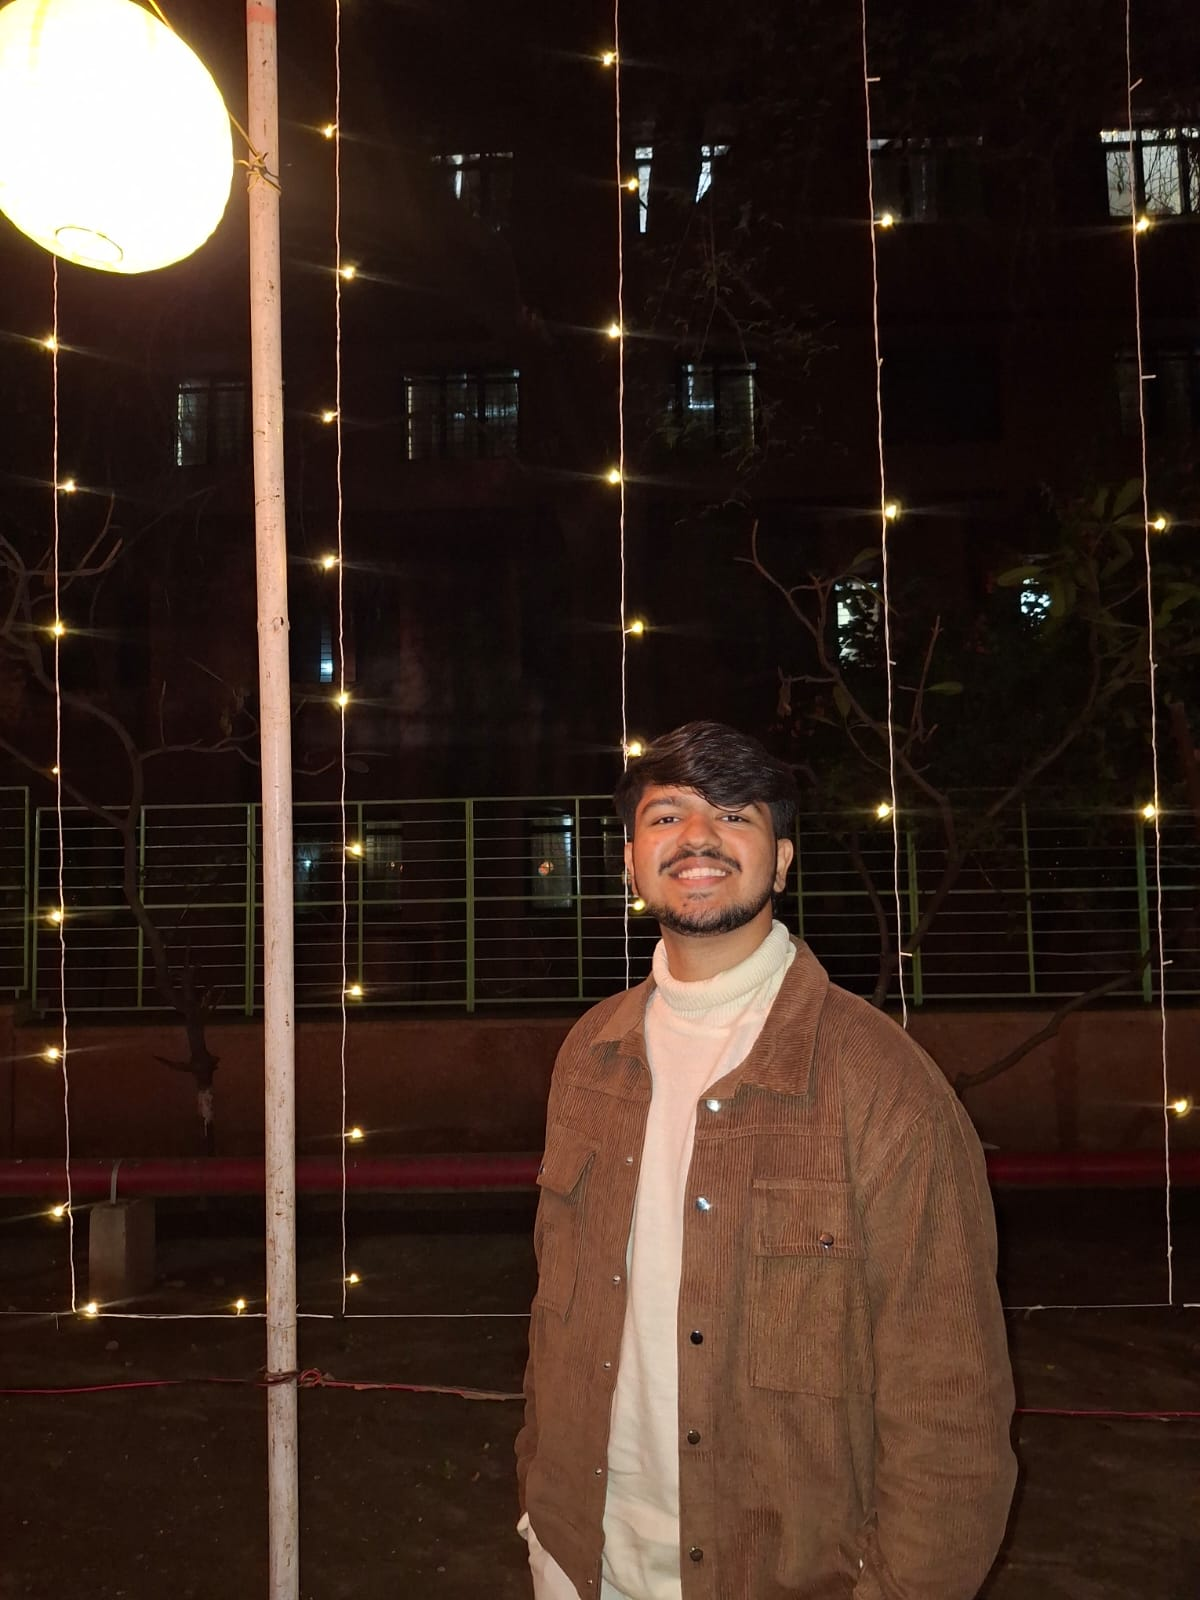
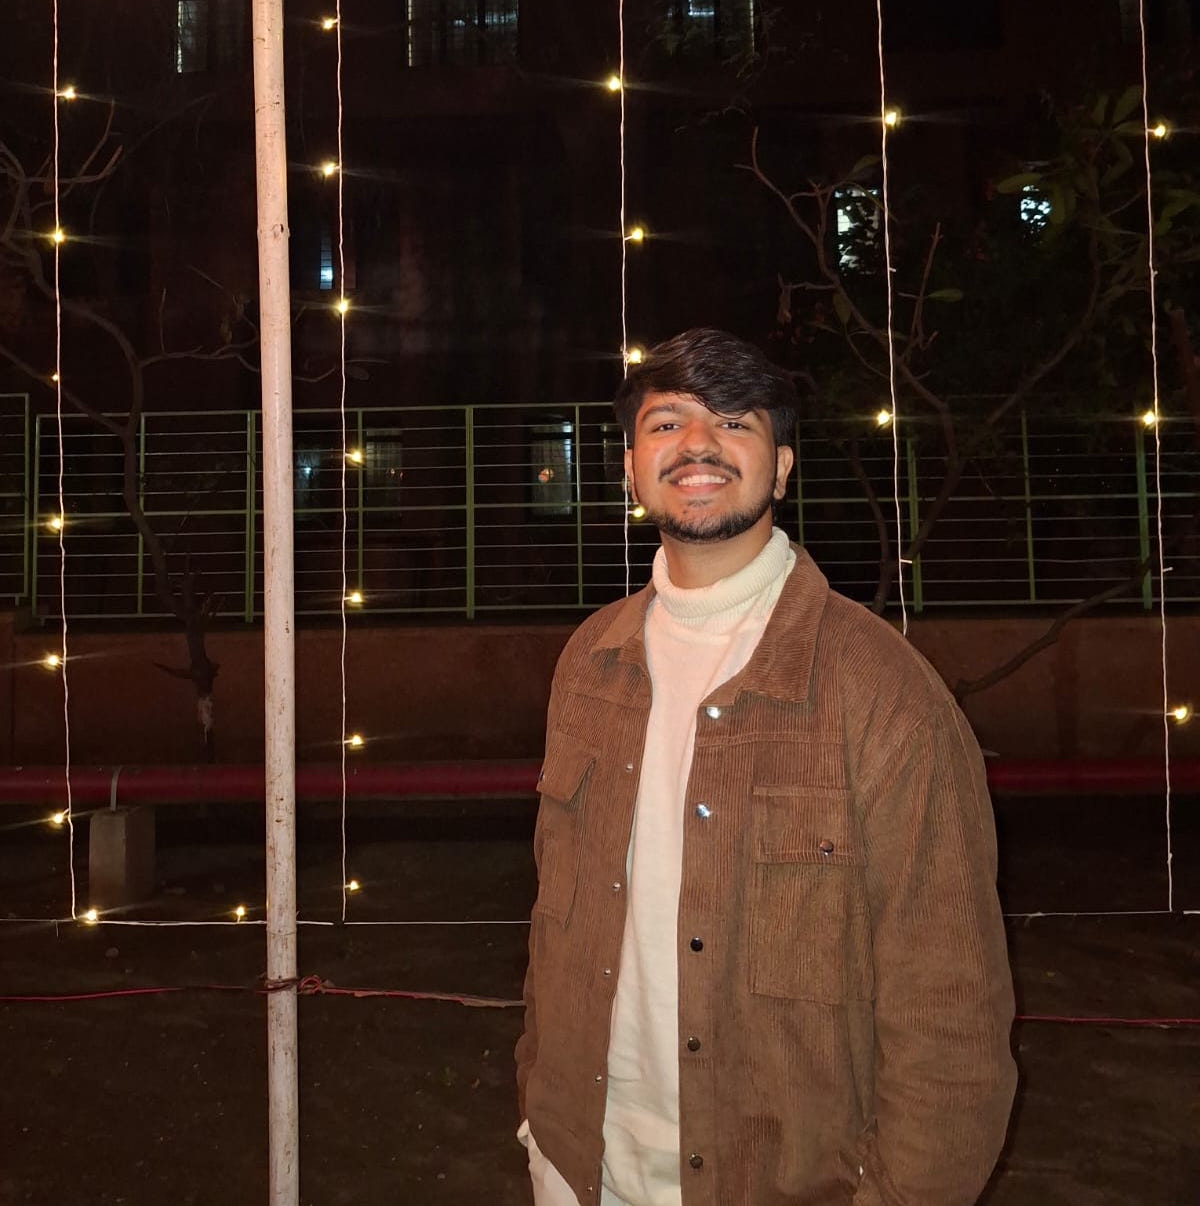
pheonix coordies contact added

diff --git a/lib/screens/science_tech/science_tech_page.dart b/lib/screens/science_tech/science_tech_page.dart
@@ -44,29 +44,29 @@ class ScienceTechPage extends StatelessWidget {
         {
           'name': 'Aryan Agarwal',
           'role': 'Coordinator',
-          'image': 'assets/assets/images/tech/phoenix/phoenix_logo.png', // not updated
-          'phone': '+919999999999', // not updated
+          'image': 'assets/assets/images/tech/phoenix/aryan.jpeg',
+          'phone': '+918949088873',
           'email': '24ucs038@lnmiit.ac.in',
         },
         {
           'name': 'Aviral Goyal',
           'role': 'Coordinator',
-          'image': 'assets/assets/images/tech/phoenix/phoenix_logo.png', // not updated
-          'phone': '+918888888888', // not updated
+          'image': 'assets/assets/images/tech/phoenix/aviral.jpg',
+          'phone': '+917830353557',
           'email': '24uec242@lnmiit.ac.in',
         },
         {
           'name': 'Shamit Rathi',
           'role': 'Coordinator',
-          'image': 'assets/assets/images/tech/phoenix/phoenix_logo.png', // not updated
-          'phone': '+918888888888', // not updated
+          'image': 'assets/assets/images/tech/phoenix/shamit.jpeg',
+          'phone': '+919460044695',
           'email': '24ucc004@lnmiit.ac.in',
         },
         {
           'name': 'Shreekant Kumawat',
           'role': 'Coordinator',
           'image': 'assets/assets/images/tech/phoenix/phoenix_logo.png', // not updated
-          'phone': '+918888888888', // not updated
+          'phone': '+919587826474',
           'email': '24uec183@lnmiit.ac.in',
         },
       ];
@@ -330,7 +330,7 @@ class ScienceTechPage extends StatelessWidget {
         'assets/assets/images/tech/debsoc/deb4.jpg',
         'assets/assets/images/tech/debsoc/deb5.jpg',
         'assets/assets/images/tech/debsoc/deb6.jpg',
-        'assets/assets/images/tech/debsoc/deb7.jpg',
+        'assets/assets/images/tech/debsoc/deb7.JPG',
         'assets/assets/images/tech/debsoc/deb8.jpg',
         'assets/assets/images/tech/debsoc/deb9.jpg',
         'assets/assets/images/tech/debsoc/deb10.jpg',
